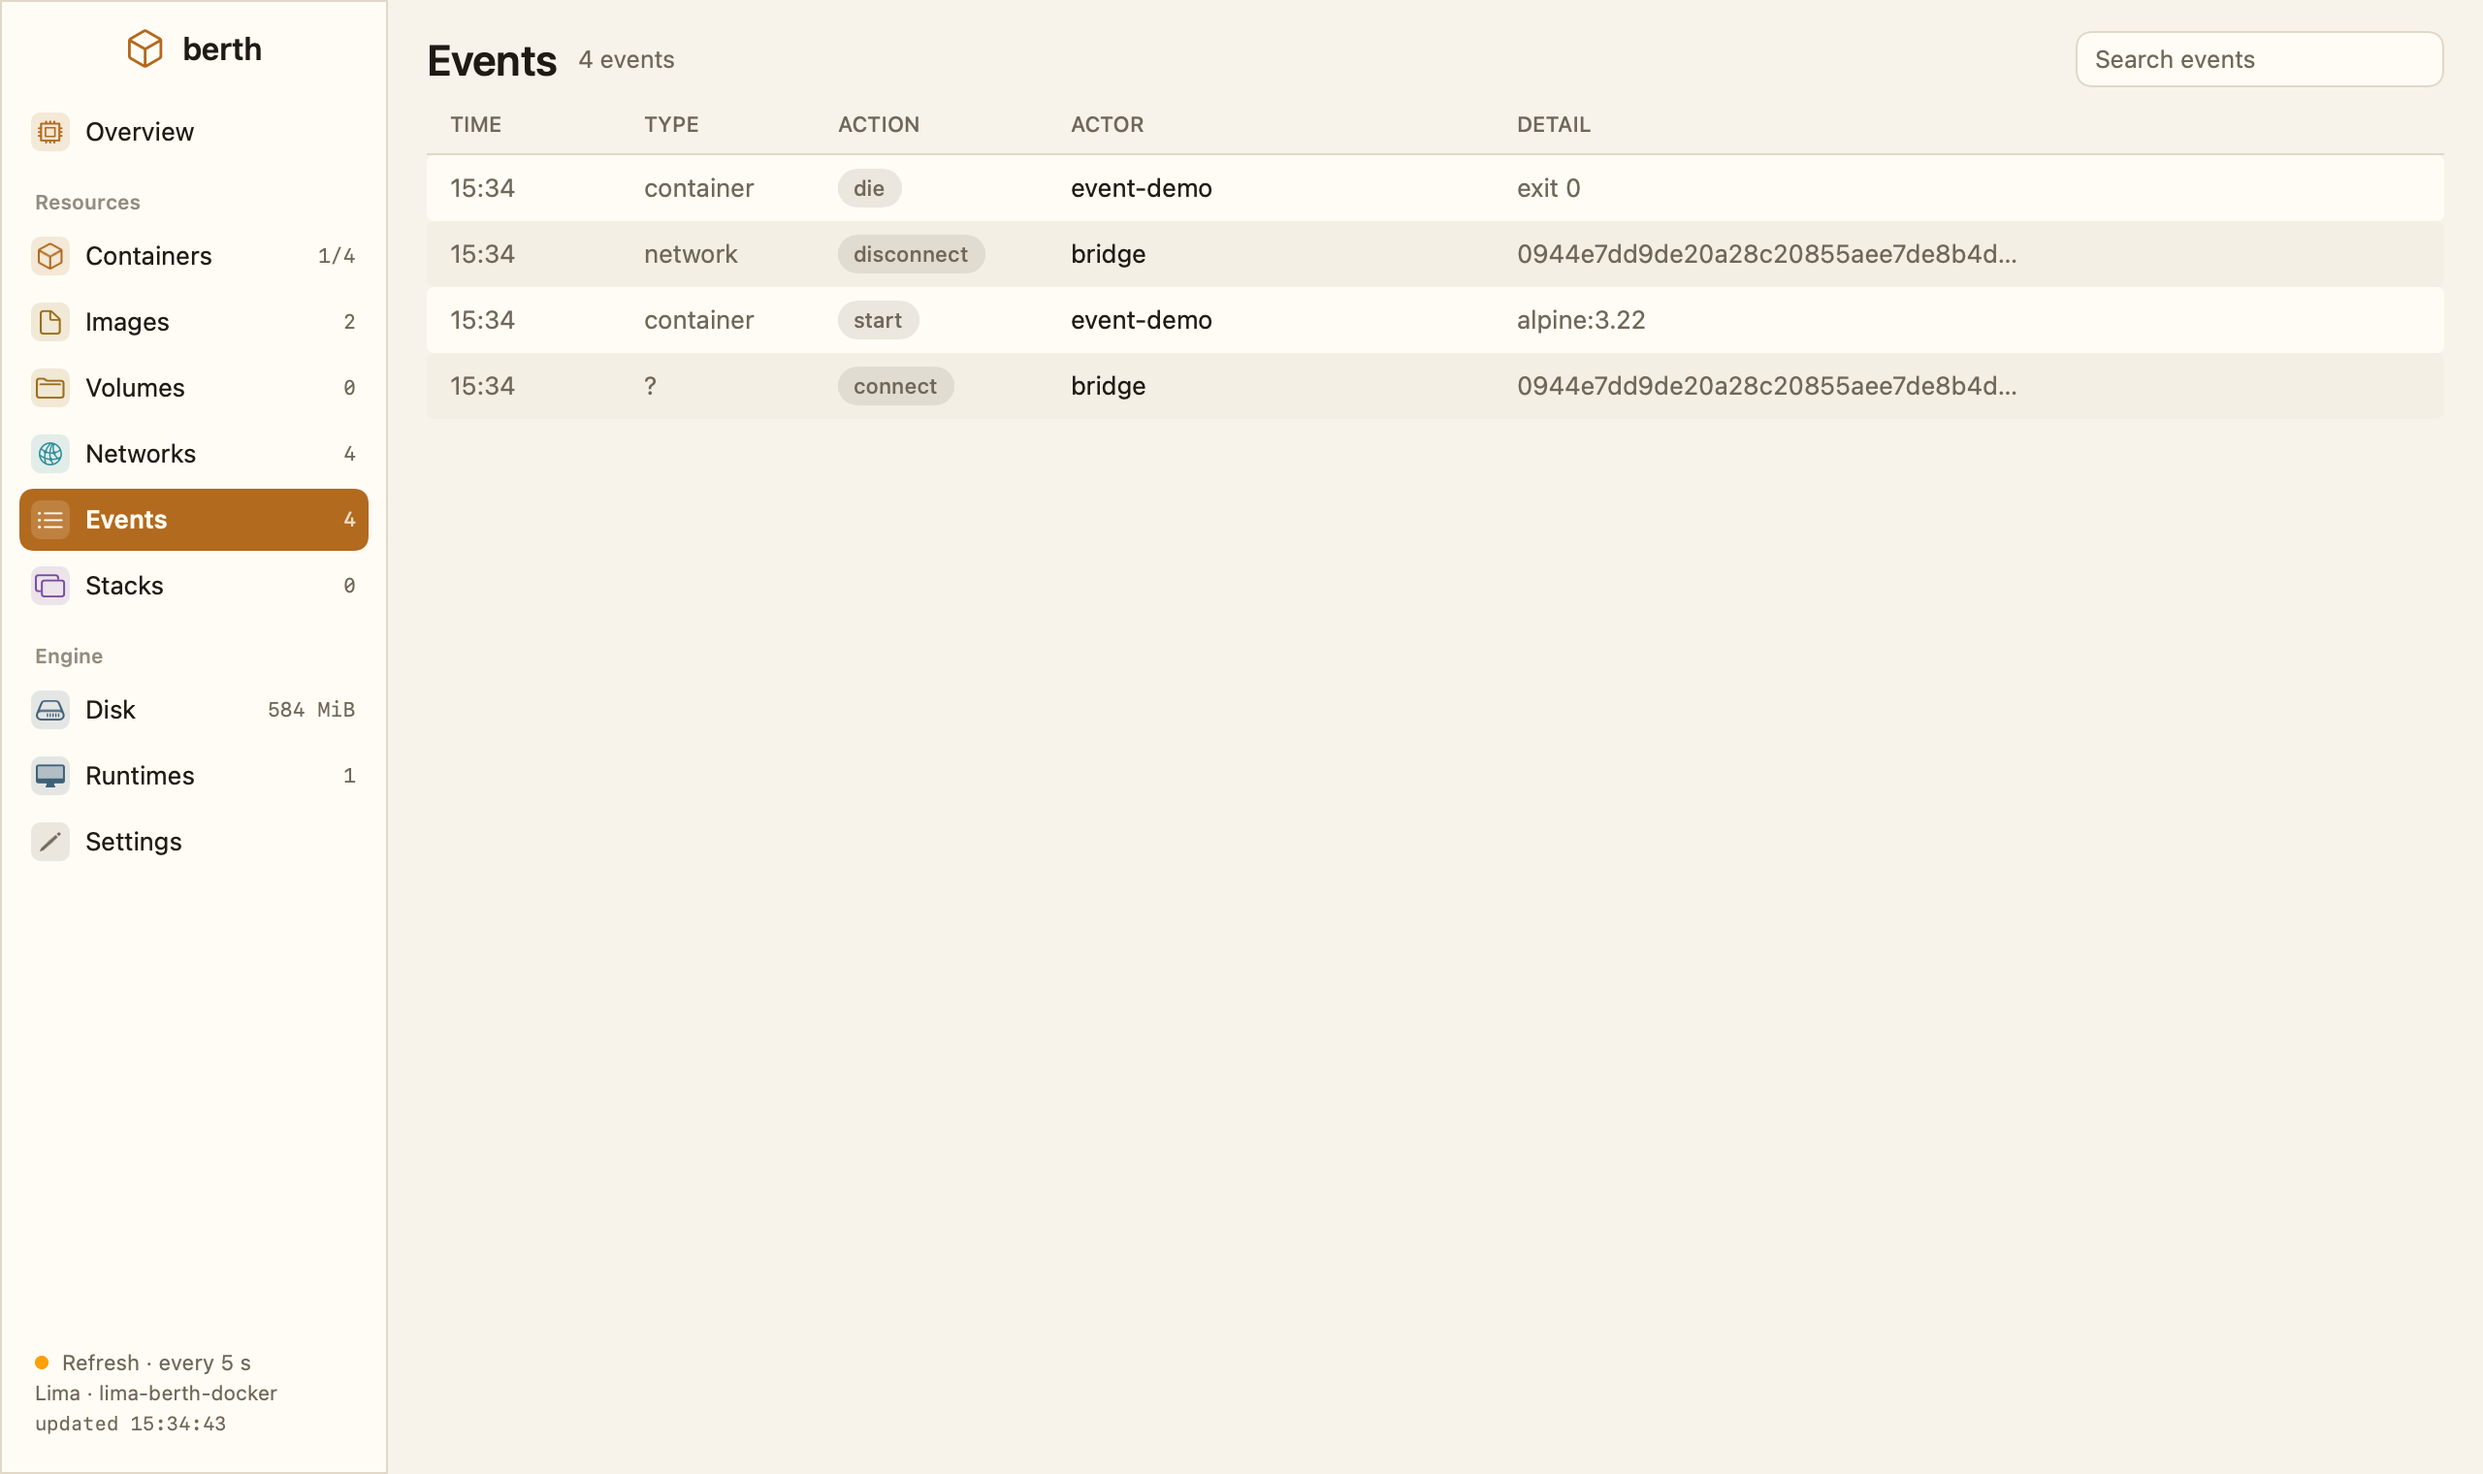
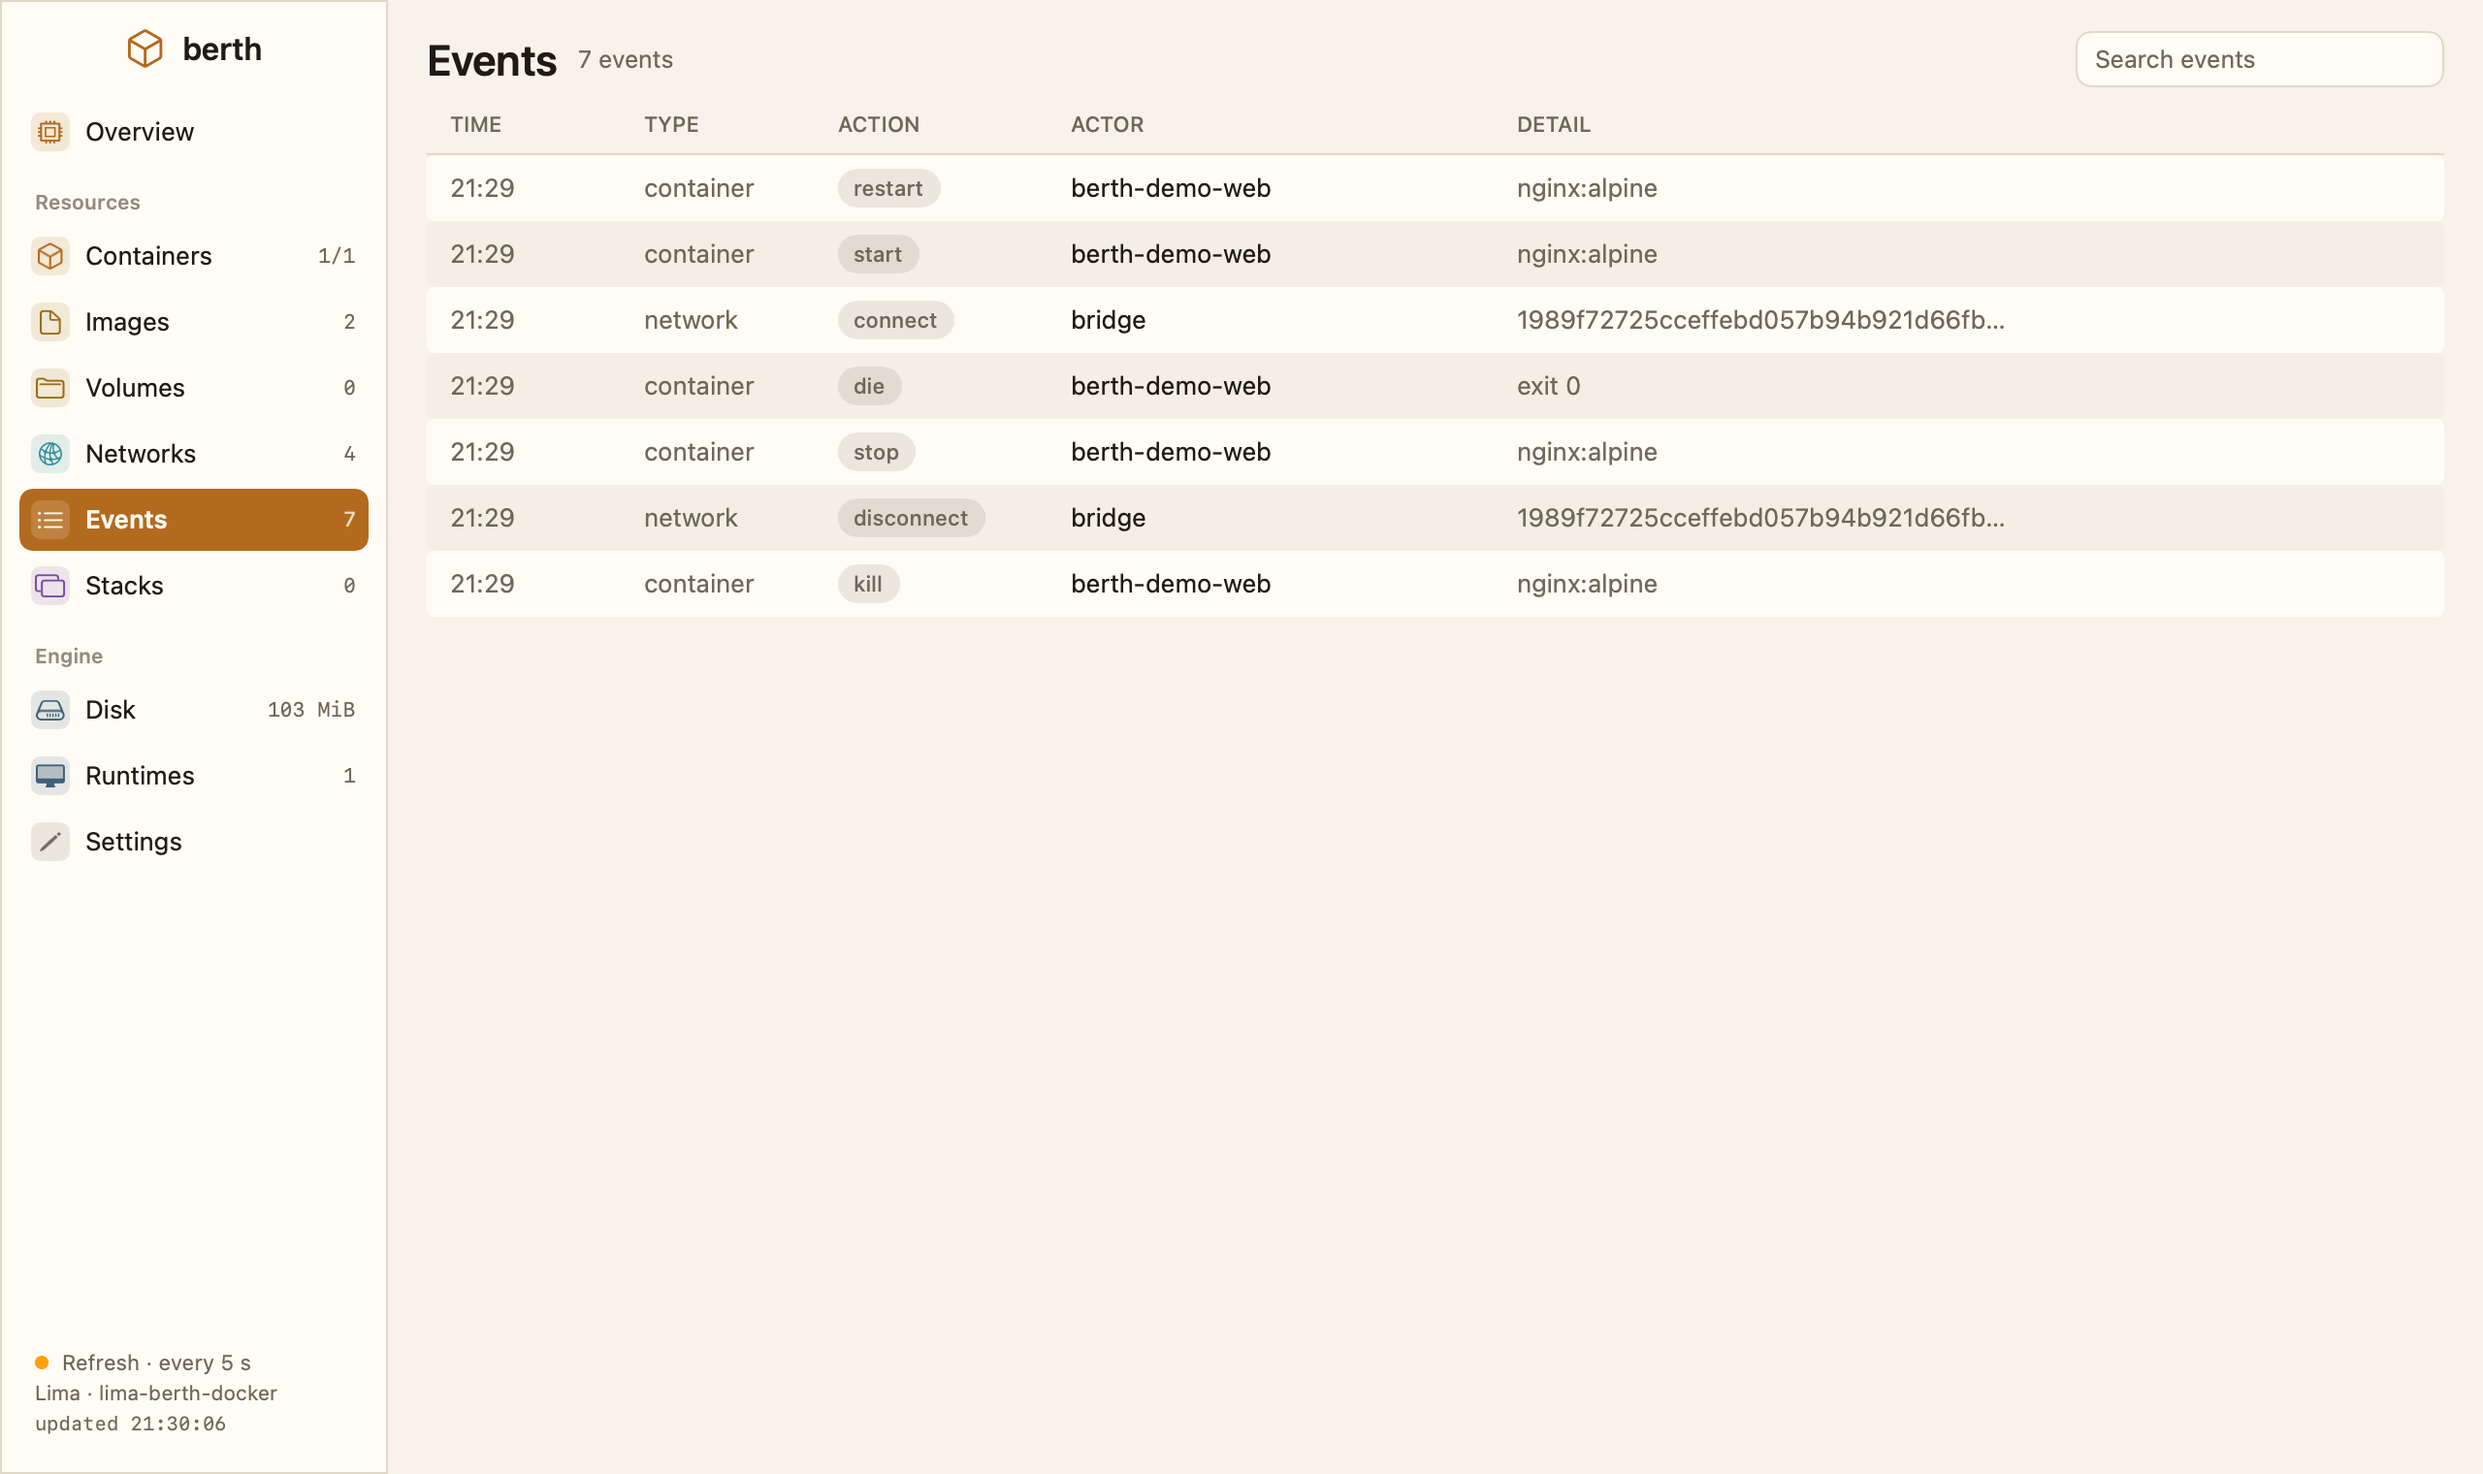
events: stop the feed pointing at a freed response body
/events was parsed with parseFromSliceLeaky's default, which leaves plain
strings aliasing the response buffer the refresh worker frees right after
parsing. The ring then rendered whatever later reused those bytes — a kill
row showed TYPE "er", the tail of "container" after a 7-byte allocation
overwrote the front. Parse with allocate = .alloc_always, and add a test
that poisons the body before reading the fields back.

Found by the Wave 3 vision pass; evidence shots and the review note are
updated.

diff --git a/docs/UI-REVIEW.md b/docs/UI-REVIEW.md
@@ -226,3 +226,28 @@ the no-flicker contract:
 
 Evidence: `events-light.png`, `events-960.png`, `bulk-light.png`,
 `logs-follow-light.png`, and `runtimes-open-light.png`.
+
+## Tier 2, Wave 3
+
+The creation card and the tray shipped, then every view was walked again at
+1280×760 in both themes, at 960×600 dark (icon rail), and on Images with the
+inspector open — which forces the card's stacked layout. The tray itself is
+menu-bar chrome, not part of these snapshots.
+
+- **Creation card.** Wide layout (Image/Name, Ports/Volumes, Env+Run) at 1280
+  and 960; stacked full-width fields with a right-aligned Run when the
+  inspector narrows the page. Placeholders, hint line and both buttons line up
+  with the card's edges in both themes. Enter submits like the buttons.
+- **Events.** The pass caught a real one: some rows rendered TYPE as "er".
+  `/events` was parsed with slices aliasing the response body, which the
+  worker frees immediately after parsing — the ring then showed whatever
+  reused the bytes (a 7-byte allocation left the tail of "container").
+  Parsing now allocates its strings (`.allocate = .alloc_always`), with a test
+  that poisons the body before reading the fields. Re-shot: all rows correct.
+- **Inspector.** The image inspector's Run… pill and Delete align, and Run…
+  prefills a dangling image's Id rather than the word "untagged".
+- **Overview, Containers, Disk, Runtimes, Settings.** Unchanged by the wave;
+  both themes, the 960 rail, and the responsive column set still hold.
+
+Evidence: `images-light.png`, `images-dark.png`, `images-960.png`,
+`events-light.png`, `events-dark.png`.
